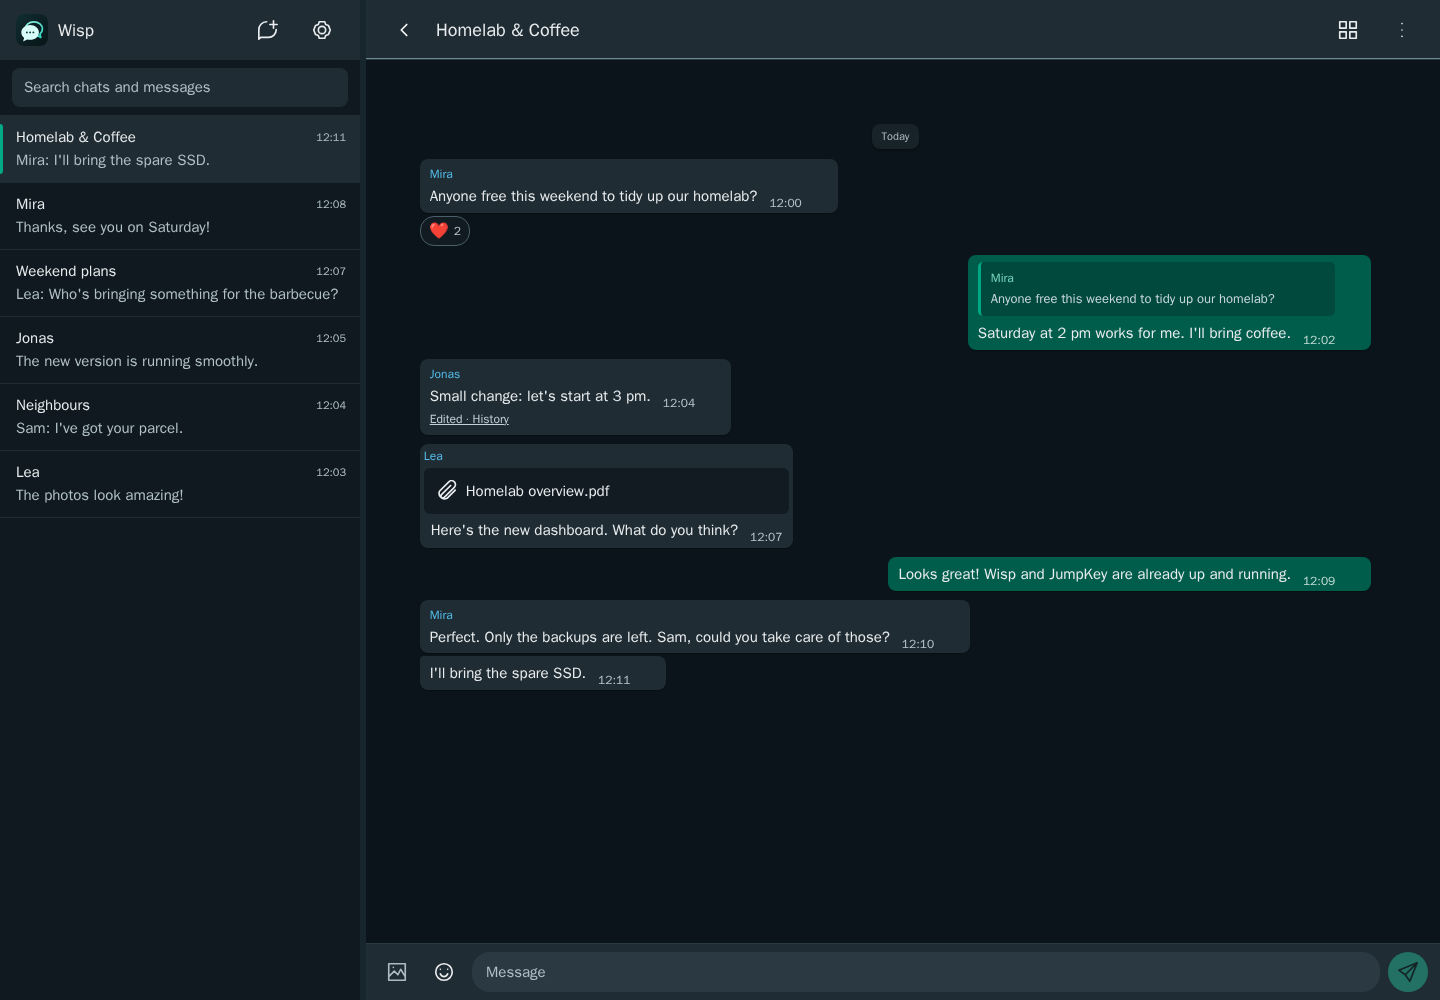
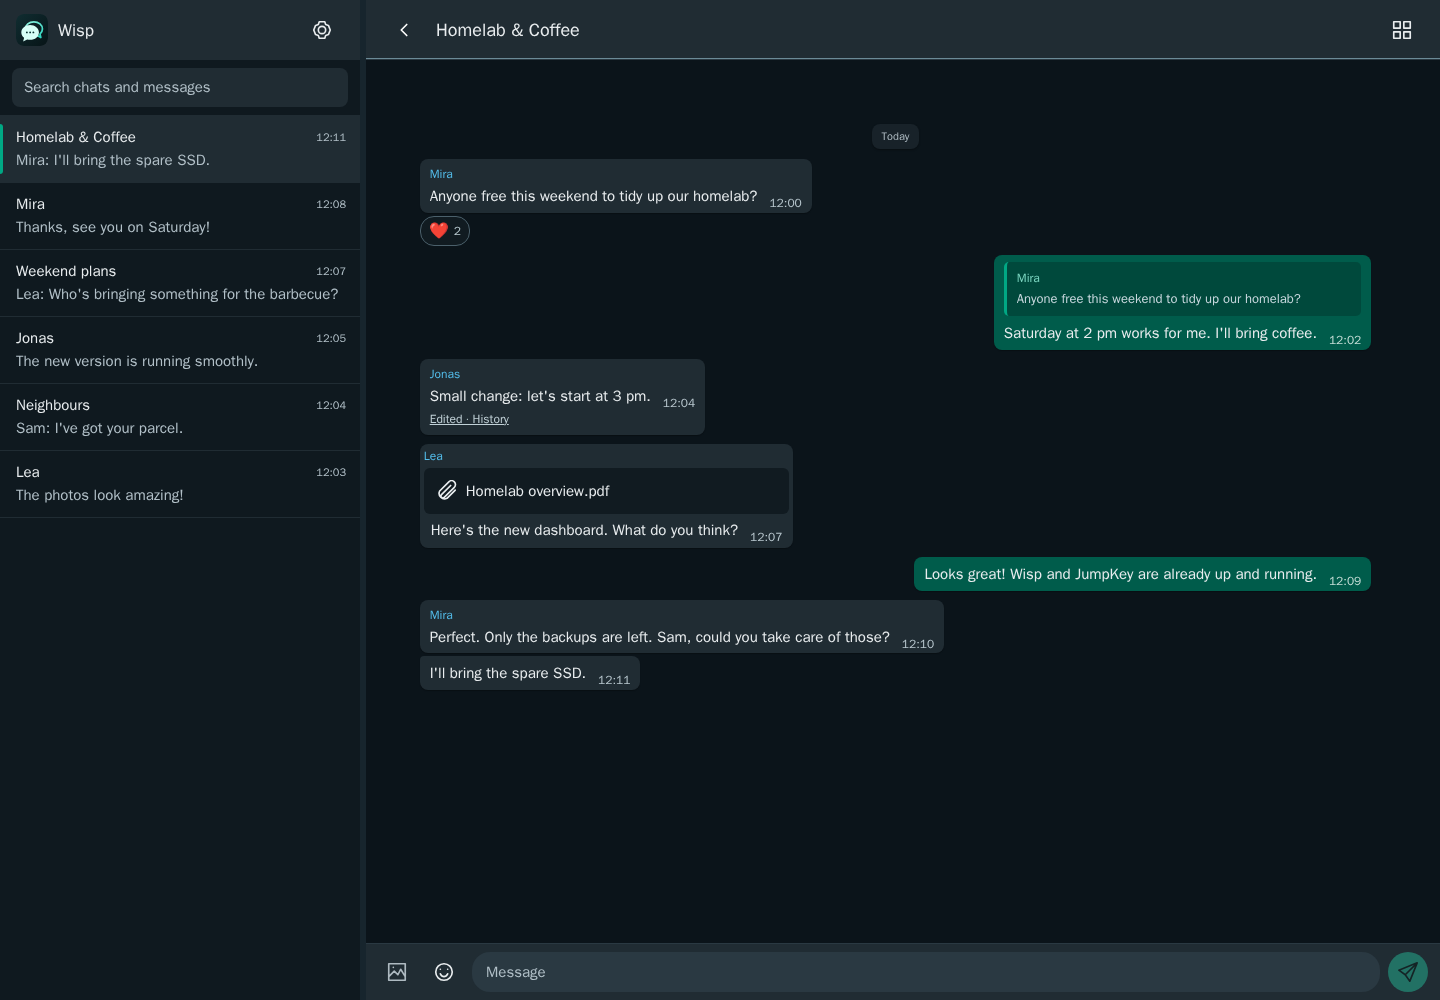
bugfixes

diff --git a/frontend/src/components/wisp-message-list.js b/frontend/src/components/wisp-message-list.js
@@ -21,9 +21,21 @@ export class WispMessageList extends LitElement {
 
   constructor(){super();this._mediaFrames=new Map();this.messages=[];this.hasOlder=false;this.loading=false;this.hasSelection=false;this.isGroup=false;this.loadingOlder=false;this.olderError=false;this.sendEnabled=false;this.pendingReactions=new Set();this.menu=null;this.expanded=new Set();
     this._pressMove=e=>{if(this._press&&(e.pointerId!==this._press.pointerId||Math.hypot(e.clientX-this._press.x,e.clientY-this._press.y)>10))this.cancelPress()};
-    this._pressEnd=()=>{this.cancelPress();if(this._heldClick)this._heldClick.until=performance.now()+800};
-    this._clickAfterHold=e=>{if(this._heldClick&&performance.now()<this._heldClick.until){e.preventDefault();e.stopImmediatePropagation();this._heldClick=null}};
-    this._outside=e=>{this._heldClick=null;if(this._press&&e.pointerId!==this._press.pointerId)this.cancelPress();const panel=this.querySelector('.message-popover');if(this.menu&&!e.composedPath().includes(panel)&&!e.composedPath().includes(this._anchor))this.closePanel()};
+    this._pressEnd=e=>{
+      this.cancelPress();
+      const held=this._heldClick;
+      if(!held||(held.pointerId!=null&&held.pointerId!==e.pointerId))return;
+      if(e.cancelable)e.preventDefault();
+      held.active=false;held.until=performance.now()+800;
+      window.getSelection()?.removeAllRanges();this.requestUpdate();
+      void this.updateComplete.then(()=>{if(this._heldClick===held&&this.menu?.mode==='actions')this.querySelector('.message-sheet')?.focus({preventScroll:true})});
+    };
+    // Some mobile browsers target the newly inserted top-layer content on release.
+    // Cancel the native touch default too: blocking click alone cannot stop selection.
+    this._touchEndAfterHold=e=>{if(this.holdBlocked()){if(e.cancelable)e.preventDefault();window.getSelection()?.removeAllRanges()}};
+    this._contextAfterHold=e=>{if(this.holdBlocked()){e.preventDefault();e.stopImmediatePropagation()}};
+    this._clickAfterHold=e=>{if(this.holdBlocked()&&(this._heldClick.active||e.detail!==0)){e.preventDefault();e.stopImmediatePropagation()}};
+    this._outside=e=>{if(this._heldClick){this._heldClick=null;this.requestUpdate()};if(this._press&&e.pointerId!==this._press.pointerId)this.cancelPress();const panel=this.querySelector('.message-popover');if(this.menu&&!e.composedPath().includes(panel)&&!e.composedPath().includes(this._anchor))this.closePanel()};
     this._viewportWidth=window.innerWidth;
     this._resize=()=>{
       const width=window.innerWidth, widthChanged=width!==this._viewportWidth;
@@ -63,11 +75,12 @@ export class WispMessageList extends LitElement {
   }
   mediaFailed(event){const el=event.currentTarget;el.classList.add('media-failed');const label=el.parentElement?.querySelector('.media-frame-status');if(label)label.textContent='Media could not be displayed.'}
 
-  connectedCallback(){super.connectedCallback();document.addEventListener('pointerdown',this._outside);window.addEventListener('resize',this._resize);this.addEventListener('scroll',this._scroll);document.addEventListener('pointermove',this._pressMove,{passive:true});document.addEventListener('pointerup',this._pressEnd);document.addEventListener('pointercancel',this._pressEnd);this.addEventListener('click',this._clickAfterHold,true)}
-  disconnectedCallback(){this.cancelPress();this._heldClick=null;this.closePanel(false);document.removeEventListener('pointermove',this._pressMove);document.removeEventListener('pointerup',this._pressEnd);document.removeEventListener('pointercancel',this._pressEnd);this.removeEventListener('click',this._clickAfterHold,true);document.removeEventListener('pointerdown',this._outside);window.removeEventListener('resize',this._resize);this.removeEventListener('scroll',this._scroll);super.disconnectedCallback()}
+  connectedCallback(){super.connectedCallback();document.addEventListener('pointerdown',this._outside);window.addEventListener('resize',this._resize);this.addEventListener('scroll',this._scroll);document.addEventListener('pointermove',this._pressMove,{passive:true});document.addEventListener('pointerup',this._pressEnd,true);document.addEventListener('pointercancel',this._pressEnd,true);document.addEventListener('touchend',this._touchEndAfterHold,{capture:true,passive:false});document.addEventListener('contextmenu',this._contextAfterHold,true);document.addEventListener('click',this._clickAfterHold,true)}
+  disconnectedCallback(){this.cancelPress();this._heldClick=null;this.closePanel(false);document.removeEventListener('pointermove',this._pressMove);document.removeEventListener('pointerup',this._pressEnd,true);document.removeEventListener('pointercancel',this._pressEnd,true);document.removeEventListener('touchend',this._touchEndAfterHold,true);document.removeEventListener('contextmenu',this._contextAfterHold,true);document.removeEventListener('click',this._clickAfterHold,true);document.removeEventListener('pointerdown',this._outside);window.removeEventListener('resize',this._resize);this.removeEventListener('scroll',this._scroll);super.disconnectedCallback()}
   mobile(){return window.matchMedia('(max-width:700px)').matches}
   canCopyImage(m){return ['image','sticker'].includes(m.type)&&m.has_media&&m.media_id&&m.media_status==='ready'}
   canAct(m){return !m.outbox&&!m.deleted&&(this.sendEnabled||Boolean(m.body)||this.canCopyImage(m))}
+  holdBlocked(){return this._heldClick&&performance.now()<this._heldClick.until}
   cancelPress(){if(this._press)clearTimeout(this._press.timer);this._press=null}
   startPress(event,message){
     this.cancelPress();this._heldClick=null;
@@ -77,15 +90,15 @@ export class WispMessageList extends LitElement {
     this._press={pointerId:event.pointerId,x:event.clientX,y:event.clientY,timer:setTimeout(()=>{
       this._press=null;
       if(!anchor.isConnected||this.inert)return;
-      this._heldClick={id:message.id,until:Infinity};
+      this._heldClick={id:message.id,pointerId:event.pointerId,active:true,until:Infinity};
       window.getSelection()?.removeAllRanges();
       void this.openPanel('actions',message,{currentTarget:anchor});
     },450)};
   }
   messageContext(event,message){
     if(!this.mobile()||!this.canAct(message)||event.target.closest('button,input,textarea,audio,video'))return;
-    event.preventDefault();this.cancelPress();
-    this._heldClick={id:message.id,until:Infinity};
+    const press=this._press;event.preventDefault();this.cancelPress();
+    this._heldClick={id:message.id,pointerId:press?.pointerId,active:Boolean(press),until:press?Infinity:performance.now()+800};
     if(this.menu?.id!==message.id)void this.openPanel('actions',message,{currentTarget:event.currentTarget});
   }
   messageKey(event,message){
@@ -129,7 +142,7 @@ export class WispMessageList extends LitElement {
     const panel=this.querySelector('.message-popover');if(!panel||this.menu?.id!==message.id)return;
     panel.showPopover?.();
     const picker=panel.querySelector('wisp-emoji-picker');if(picker)await picker.updateComplete;
-    if(this.menu?.mode==='actions'){panel.querySelector('.message-sheet-content button:not(:disabled)')?.focus({preventScroll:true});return}
+    if(this.menu?.mode==='actions'){if(!this._heldClick?.active)(this._heldClick?panel:panel.querySelector('.message-sheet-content button:not(:disabled)'))?.focus({preventScroll:true});return}
     const rect=this._anchor.getBoundingClientRect(),box=panel.getBoundingClientRect();
     const width=document.documentElement.clientWidth,height=window.visualViewport?.height || window.innerHeight;
     const leftBound=this.menu.mode==='more'?Math.max(8,Math.min(this.getBoundingClientRect().left+8,width-box.width-8)):8;
@@ -173,7 +186,7 @@ export class WispMessageList extends LitElement {
     const m=this.messages.find(x=>x.id===this.menu.id);if(!m)return null;
     const own=(m.reactions||[]).find(r=>r.from_me),sheet=this.menu.mode==='actions',view=this.menu.view;
     const recent=[...new Set([...recentEmojis(),'👍','❤','😂','😮','😢','🙏'])].slice(0,6);
-    return html`<div class="message-popover ${sheet?'message-sheet':this.menu.mode==='more'?'message-options':''}" popover="manual" role="dialog" tabindex="-1" aria-modal=${sheet?'true':nothing} aria-label=${sheet||this.menu.mode==='more'?'Message actions':this.menu.mode==='picker'?'React to message':'Reactions'} @keydown=${this.panelKey}>
+    return html`<div class="message-popover ${sheet?'message-sheet':this.menu.mode==='more'?'message-options':''}" popover="manual" role="dialog" tabindex="-1" aria-modal=${sheet?'true':nothing} ?inert=${sheet&&Boolean(this._heldClick?.active)} aria-label=${sheet||this.menu.mode==='more'?'Message actions':this.menu.mode==='picker'?'React to message':'Reactions'} @keydown=${this.panelKey}>
       ${sheet?html`
         <button class="message-sheet-backdrop" tabindex="-1" aria-label="Close message actions" @click=${()=>this.closePanel()}></button>
         <section class="message-sheet-content">

diff --git a/frontend/src/style.css b/frontend/src/style.css
@@ -596,3 +596,6 @@ dialog.chat-controls::backdrop{background:#0009}
 .read-mode-setting select:focus-visible{outline:2px solid #7ca99e;outline-offset:2px}
 .read-mode-hint{color:#b8c7ce;font-size:13px;line-height:1.5;margin:4px 0 12px}
 @media(max-width:600px){.read-mode-setting select{width:100%}}
+
+/* Long-press release must not select the text/emoji that appears beneath it. */
+.message-sheet,.message-sheet *{-webkit-user-select:none;user-select:none;-webkit-touch-callout:none}

diff --git a/docs/ui-ux-validation.md b/docs/ui-ux-validation.md
@@ -335,3 +335,19 @@ Optimistic outbox update (20 October 2026):
 - Existing upload-scroll, cross-chat response, camera, menu, clipboard,
   reduced-motion and chat-preparation regressions remain in the browser suite.
 - Live WhatsApp acknowledgement/delivery and physical PWA checks remain manual.
+
+### Mobile long-press release guard
+
+A message sheet opened by holding a touch is inert until that touch ends or is
+canceled. Capture handlers suppress native touch-end defaults, context menus and
+compatibility clicks from the opening gesture, including clicks retargeted to
+top-layer content. Touch opening focuses the dialog after release rather than a
+menu action. The sheet disables native text selection/callouts. A fresh pointer
+down clears the guard immediately; it does not impose a delay on the next tap.
+
+`tests/browser-message-actions.spec.mjs` keeps a real CDP touch down while the
+sheet opens, moves it over an emoji, preview text or backdrop, releases it and
+checks that nothing is selected, activated or dismissed. It also checks delayed
+compatibility clicks and an immediately following intentional emoji tap. Existing
+short-tap image opening, link holding, scrolling, copy/reply and keyboard tests
+remain covered.
